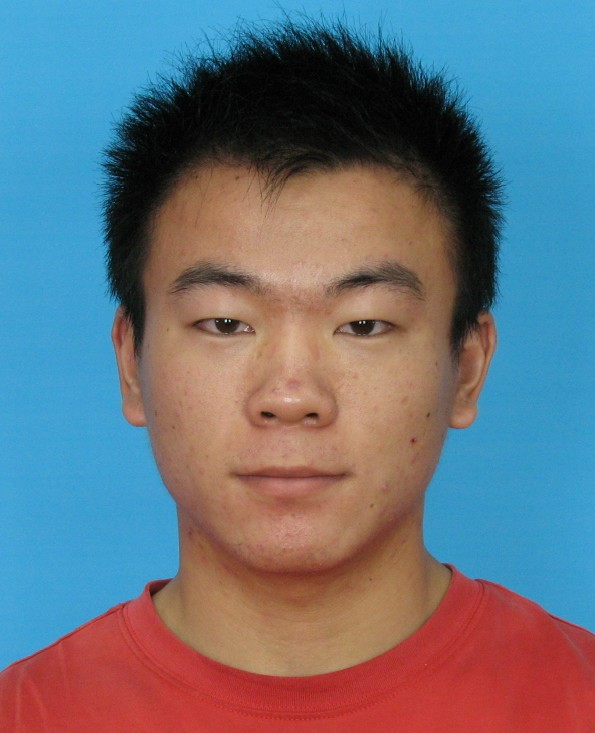
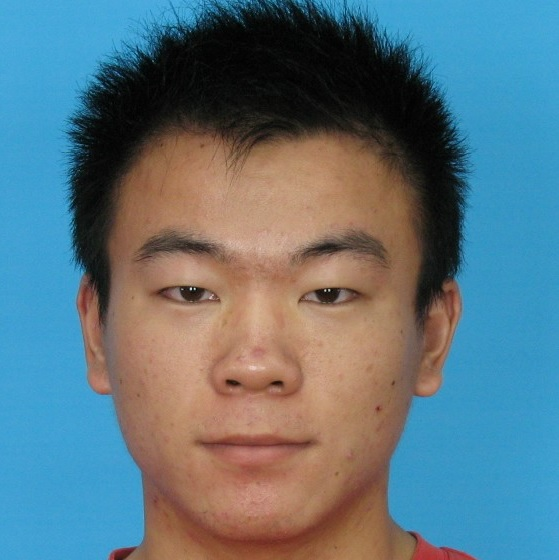
modified _config.yml to change the title and blog page. add a new dummy blog add the About part in _layouts/index.html change the photo to make it a square.

diff --git a/_layouts/index.html b/_layouts/index.html
@@ -25,7 +25,7 @@
 						<div id="logo">
 							<span class="image avatar48"><img src="images/avatar.jpg" alt="" /></span>
 							<h1 id="title">Bin Dai</h1>
-							<p style="text-align:right">Ph.D Candidate</p>
+							<p>Ph.D Candidate</p>
 						</div>
 
 					<!-- Nav -->
@@ -77,7 +77,7 @@
 
 							<header>
 								<h2 class="alt">BIN-GO</h2>
-								<p>Hello, I'm a Ph.D candidate of the Institute of Advanced Study, Tsinghua University.
+								<p style="text-align:left">Hello, I'm a Ph.D candidate of the Institute of Advanced Study, Tsinghua University.
                                 I'm an intern in the Microsoft Research Asia (MSRA). My research interest is computer vision
                                 and deep learning. <a href="#contact" id="intro-contact-link">Contact me</a> or 
                                 <a href="#about" id="intro-portfolio-link">read more about me</a>.</p>
@@ -96,7 +96,7 @@
                                         {% for post in site.posts %}
                                         <li>
                                             <a href="{{ post.url }}">{{ post.title }}</a>
-                                            <!--p>{{ post.excerpt }}</p-->
+                                            <p style="text-align:left">{{ post.excerpt }}</p>
                                         </li>
                                         {% endfor %}
                                     </ul>
@@ -112,20 +112,38 @@
 							<header>
 								<h2>About Me</h2>
 							</header>
-							<p>Andrew Ng is Associate Professor of Computer Science at Stanford; 
-                            Chief Scientist of Baidu; and Chairman and Co-founder of Coursera.
-                            In 2011 he led the development of Stanford University’s main MOOC 
-                            (Massive Open Online Courses) platform and also taught an online 
-                            Machine Learning class to over 100,000 students, leading to the founding of Coursera. 
-                            Ng’s goal is to give everyone in the world access to a great education, 
-                            for free. Today, Coursera partners with some of the top universities 
-                            in the world to offer high quality online courses, and is the largest MOOC platform in the world.
-                            Ng also works on machine learning with an emphasis on deep learning. 
-                            He founded and led the “Google Brain” project which developed massive-scale deep learning algorithms. 
-                            This resulted in the famous “Google cat” result, 
-                            in which a massive neural network with 1 billion parameters learned from unlabeled YouTube videos 
-                            to detect cats. More recently, he continues to work on deep learning 
-                            and its applications to computer vision and speech, including such </p>
+							<p style="text-align:left">I'm a Ph.D candidate of the Institute For Advanced Study (IAS), Tsinghua University;
+                            an intern in Microsoft Research Asia (MSRA).</p>
+
+                            <h4>Education</h4>
+                            <p style="text-align:left">
+                                I got my B.S. in Tsinghua University in 2013. I majored in physics during my undergraduate study
+                                and did some research in astrophysics. My first seminar project was about the planet migration.
+                                Under the supervision of Prof. Douglas Lin, I explained part of the reasons of the resonance between
+                                the planets in the same solar system. Another project I focused on was the gas depletion of Hot Jupiters.
+                                My bachelor's thesis is about fitting the light curves of supernovae Ia, which is conducted under the
+                                guidance of Prof. Xiaofeng Wang.<br />
+                                After I graduated, I became a Ph.D candidate in IAS, THU. In 2014, I decided to turn my research realm
+                                into computer science. Since then, I've been researching in the field of computer vision and deep learning.
+                                Currently, I'm working on projects about photo selection.<br />
+                            </p>
+
+                            <h4>Interests</h4>
+                            <p style="text-align:left">
+                                I have quite a lot of hobbies, like soccer, reading, Chinese poems. 
+                                Moreover, I'm always eager to experience new things and find new life
+                                styles.<br/><br/>
+                                <em style="font-weight:900">Soccer: </em><br/>I served as a member of the department soccer team and was the captain of it 
+                                from 2011.04 to 2013.06. From 2014.08, I joined another soccer team called Lingpao Tsinghua, members of 
+                                which are all alumni of THU. I'm a soccer fan of Arsenal which is a club in the Premier League.<br/><br/>
+                                <em style="font-weight:900">Chinese poems: </em><br/>Tang poetry and Song poetry are both great treasure for the Chinese. 
+                                I learned some rules and forms of classical poetic composition in 2010. Sometimes I write some Chinese poems, 
+                                though not good ones. I'll post my poems in the blog, of course in Chinese.<br/><br/>
+                                <em style="font-weight:900">Reading: </em><br/>Reading helps people experience the world they've never live in. 
+                                I love reading all kinds of different books. Currently i'm focusing on pholosophy and artistics. However, as Schopenhauer's 
+                                pointed out, simply reading may be useless. It's thinking rather than reading that helps us gain big picture of the whole 
+                                world. So besides reading, I also like writing some comments. I'll post my reading comments, mostly in Chinese.<br/><br/>
+                            </p>
 
 						</div>
 					</section>

diff --git a/_includes/header.html b/_includes/header.html
@@ -16,7 +16,7 @@
       <div class="trigger">
         {% for my_page in site.pages %}
           {% if my_page.title %}
-          <a class="page-link" href="{{ my_page.url | prepend: site.baseurl }}">{{ my_page.title }}</a>
+          <a class="page-link" href="/#about">{{ my_page.title }}</a>
           {% endif %}
         {% endfor %}
       </div>

diff --git a/assets/css/main.css b/assets/css/main.css
@@ -1672,7 +1672,6 @@
 
 	p, ul, ol, dl, table {
 		margin-bottom: 2em;
-		text-align: left;
 	}
 
 	br.clear {
